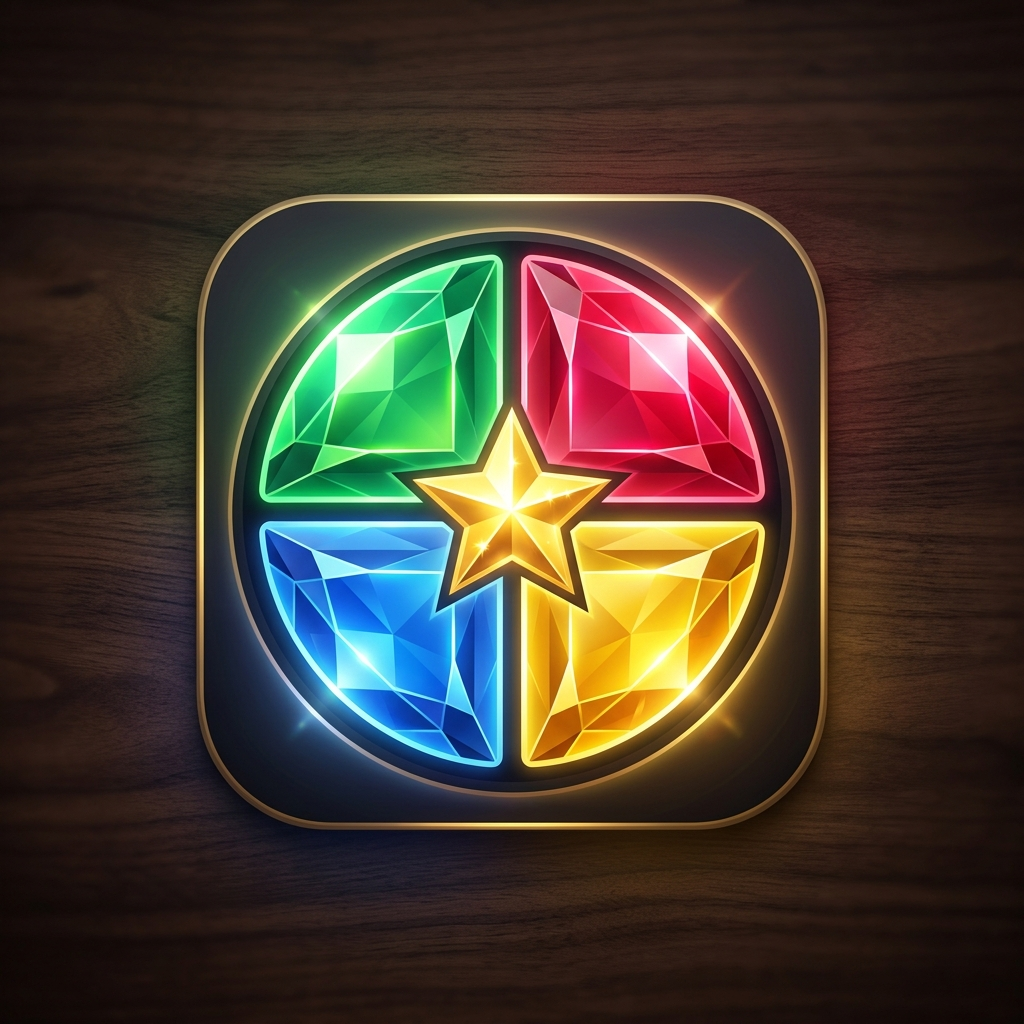
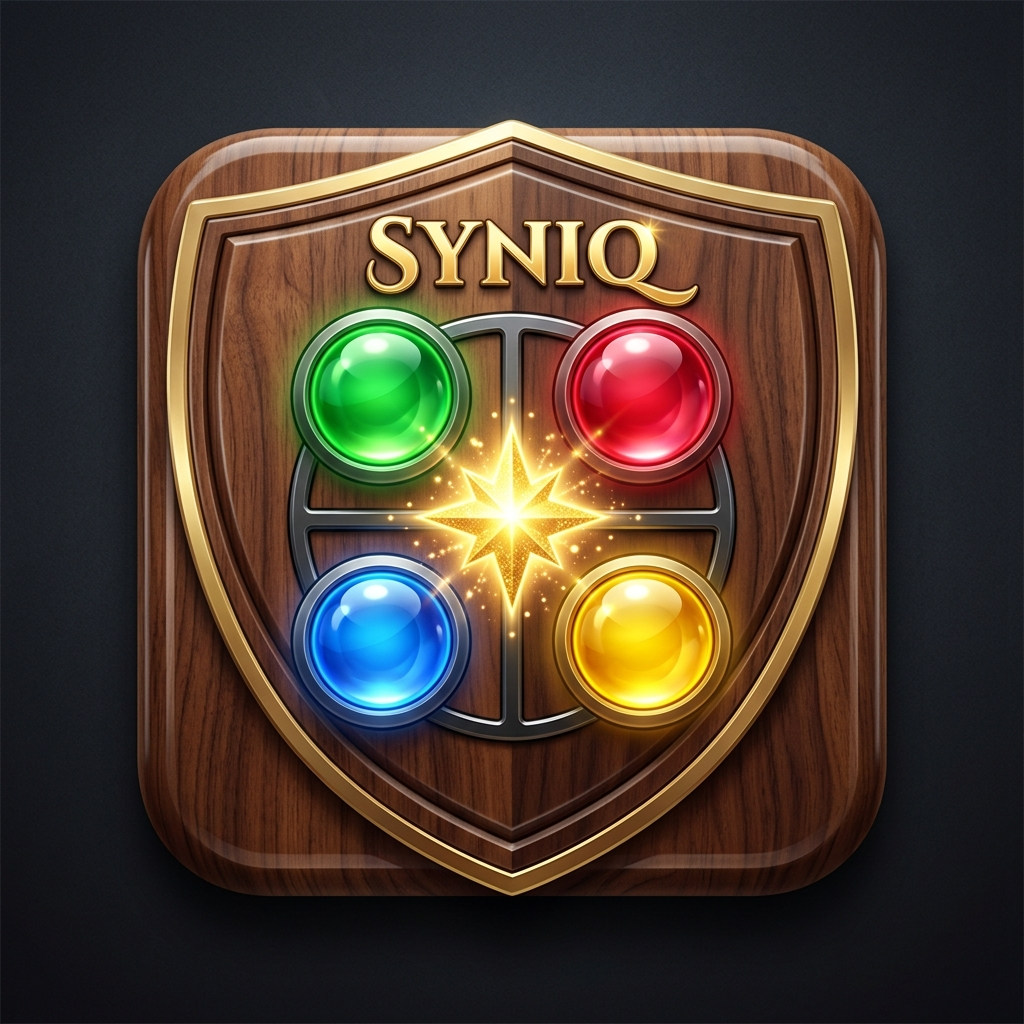
feat: add useMetaTags hook and update Open Graph assets and meta configurations

diff --git a/index.html b/index.html
@@ -47,13 +47,13 @@
     <meta property="og:image" content="https://syniq.moparapairayat.dev/og-image.png" />
     <meta property="og:image:secure_url" content="https://syniq.moparapairayat.dev/og-image.png" />
     <meta property="og:image:type" content="image/png" />
-    <meta property="og:image:width" content="1200" />
-    <meta property="og:image:height" content="630" />
-    <meta property="og:image:alt" content="Syniq Memory Challenge — colorful Simon game board" />
+    <meta property="og:image:width" content="512" />
+    <meta property="og:image:height" content="512" />
+    <meta property="og:image:alt" content="Syniq Memory Challenge logo icon" />
     <meta property="og:locale" content="en_US" />
 
     <!-- Twitter / X Card -->
-    <meta name="twitter:card" content="summary_large_image" />
+    <meta name="twitter:card" content="summary" />
     <meta name="twitter:url" content="https://syniq.moparapairayat.dev/" />
     <meta name="twitter:title" content="Syniq — Modern Memory Challenge" />
     <meta
@@ -62,7 +62,7 @@
     />
     <meta name="twitter:image" content="https://syniq.moparapairayat.dev/og-image.png" />
     <meta name="twitter:image:src" content="https://syniq.moparapairayat.dev/og-image.png" />
-    <meta name="twitter:image:alt" content="Syniq Memory Challenge game board" />
+    <meta name="twitter:image:alt" content="Syniq Memory Challenge logo icon" />
 
     <!-- Mobile & PWA -->
     <meta name="apple-mobile-web-app-capable" content="yes" />

diff --git a/src/hooks/useMetaTags.ts b/src/hooks/useMetaTags.ts
@@ -42,7 +42,7 @@ export function useMetaTags({ title, description, url, image }: MetaTagOptions) 
     setMeta('twitter:url', pageUrl, true)
     setMeta('twitter:image', pageImage, true)
     setMeta('twitter:image:src', pageImage, true)
-    setMeta('twitter:card', 'summary_large_image', true)
+    setMeta('twitter:card', 'summary', true)
 
     setMeta('description', description, true)
   }, [title, description, url, image])
